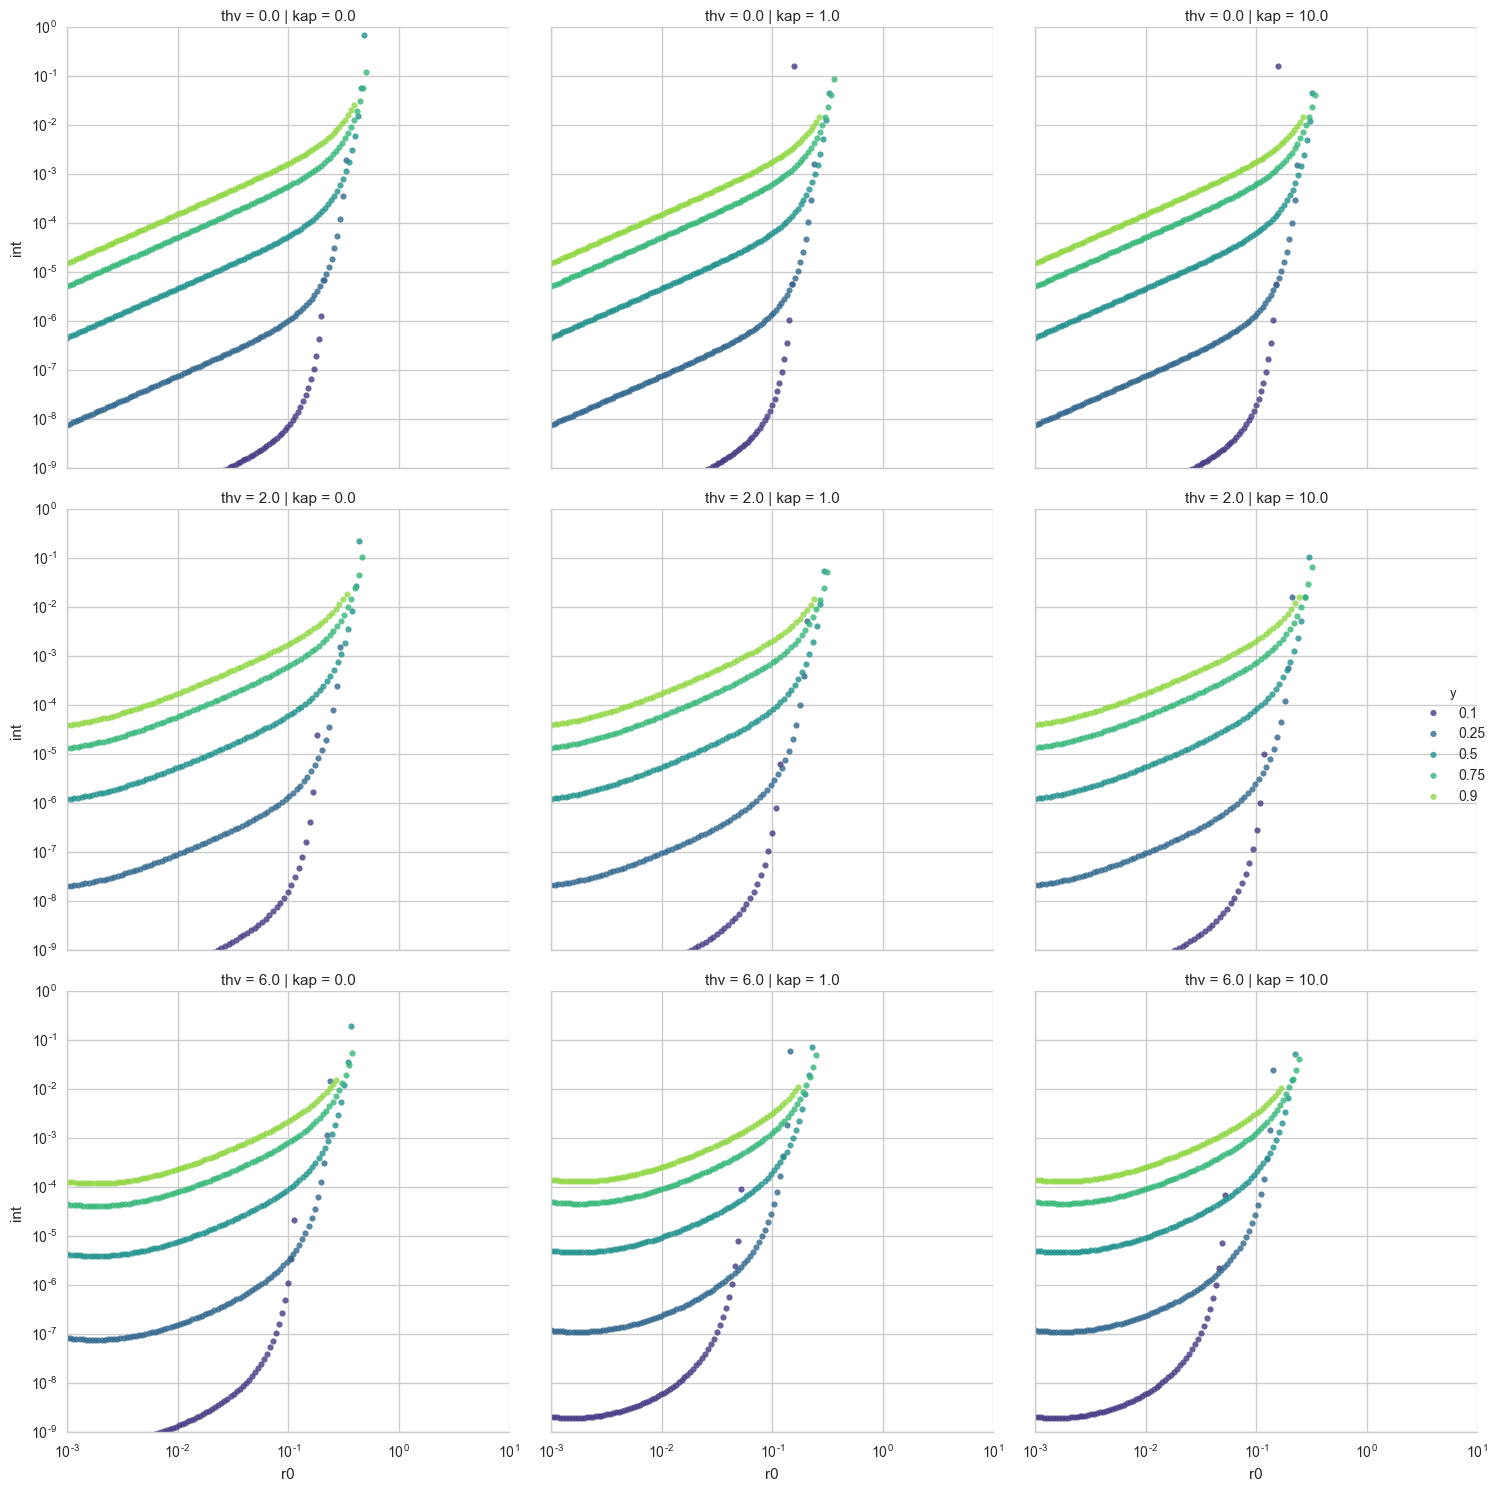
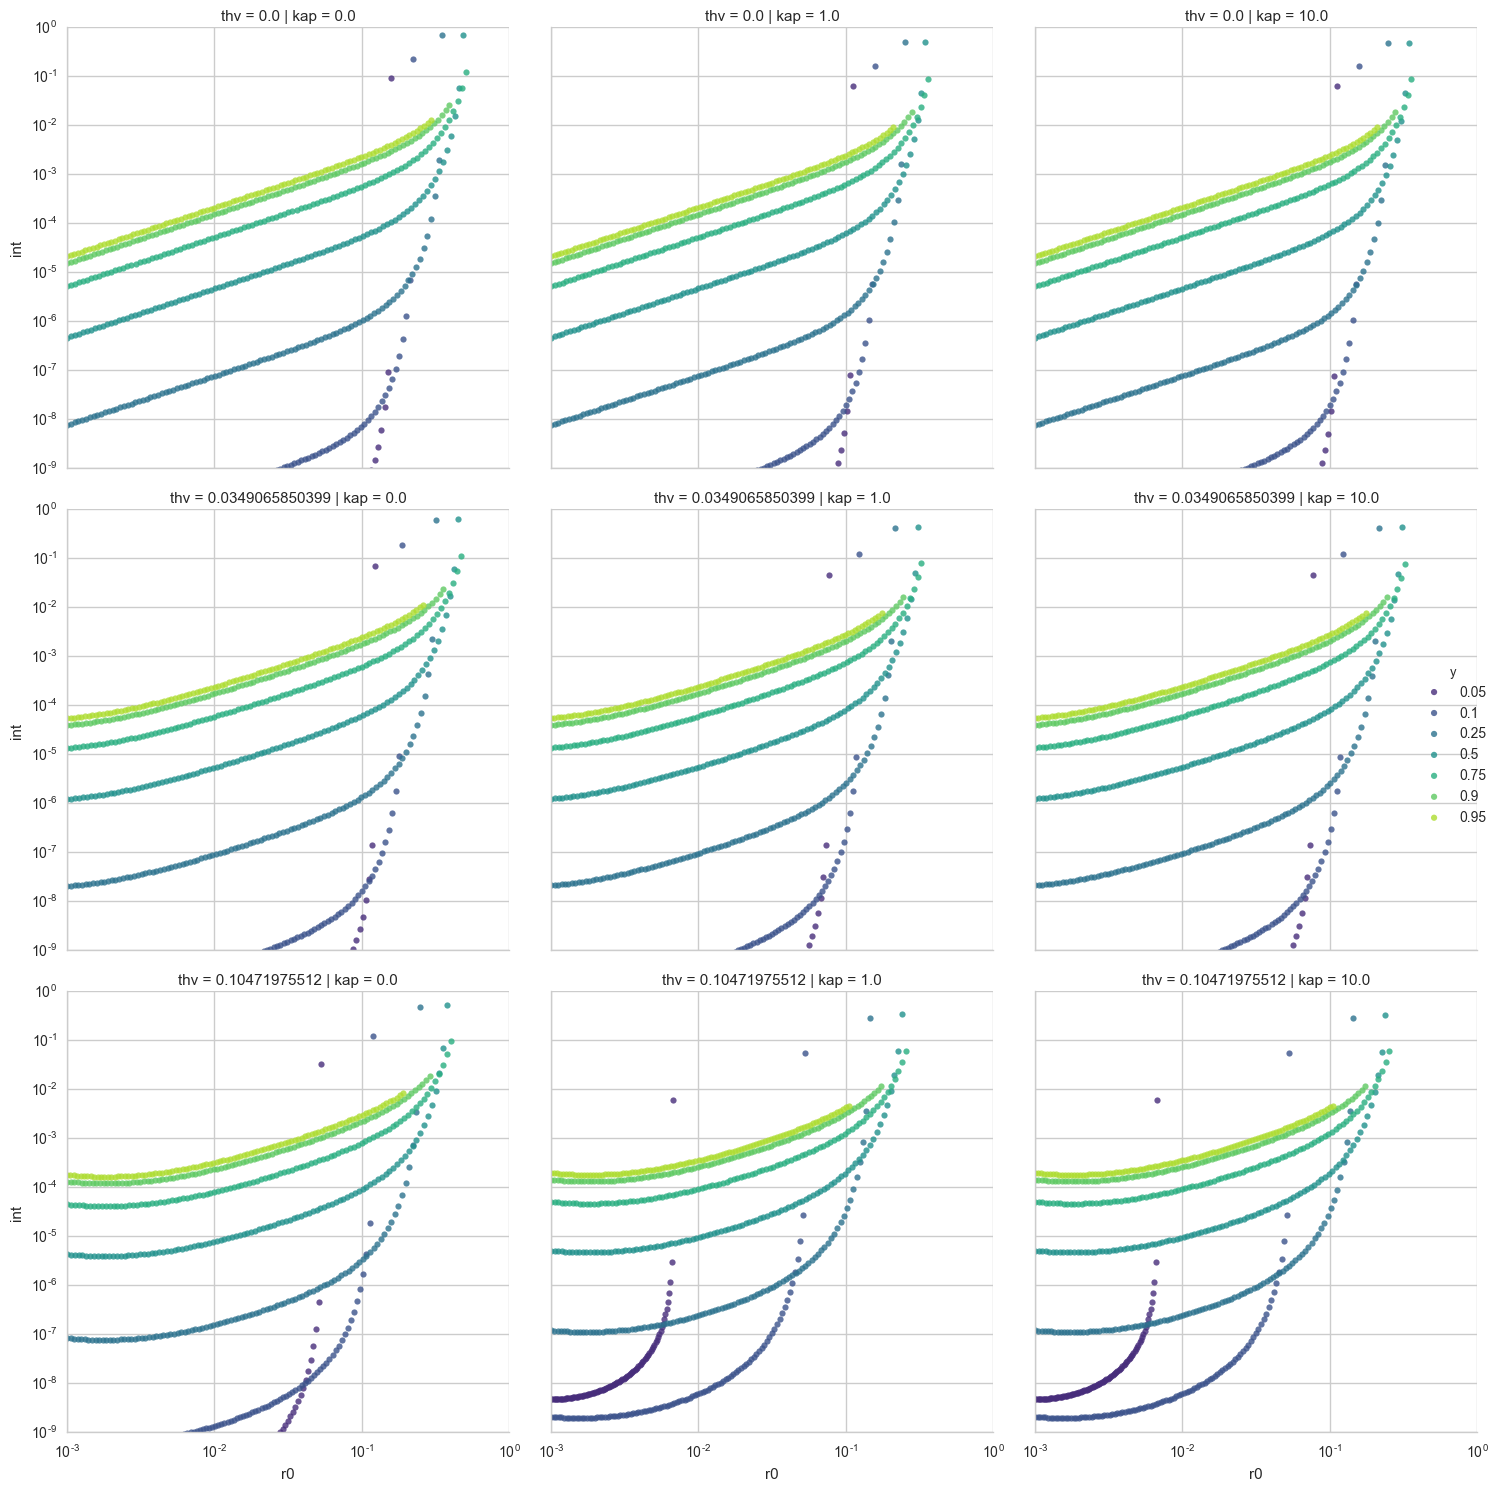
Integration/r0'_max Root Solve Tests
Perform tests of integration for various KAPPA/THETA_V combinations.
Investigate regions where integration breaks. Seems certain y values
have a negative r0'_max, hence should not be integrated.

diff --git a/grba_integration.py b/grba_integration.py
@@ -1,7 +1,7 @@
 import sys
 from ctypes import *
-from scipy.optimize import fsolve
-from scipy.integrate import nquad
+from scipy.optimize import fsolve, brentq
+from scipy.integrate import nquad, quad, romberg, quadrature
 from math import radians, degrees
 import numpy as np
 import pandas as pd
@@ -9,6 +9,8 @@ import matplotlib as mpl
 import matplotlib.pyplot as plt
 import seaborn as sns
 sns.set_style("whitegrid")
+
+TINY = 1.0e-5
 
 grbaint = cdll.LoadLibrary("Release/grba_integration.dll")
 phiInt = grbaint.phiInt
@@ -45,82 +47,177 @@ def r0_max(y, kap, sig, thv, gA = 1.0, k = 0.0, p = 2.2):
         rhs = (np.tan(thv) + rm)**2.0*np.exp2(rExp)
         return rhs - lhs
 
-    rootVal = fsolve(root, 0.4)[0]
+    rootVal = fsolve(root, 1.0e-3)[0]
+    # rootVal = brentq(root, 0.0, 0.6)
     return rootVal
+
+def r0_max_val(r, y, kap, sig, thv, gA = 1.0, k = 0.0, p = 2.2):
+    Gk = (4.0 - k)*gA**2.0
+    thP0 = thetaPrime(r, thv, 0.0)
+    rExp = -np.power(np.divide(thP0, sig), 2.0*kap)
+    lhs = np.divide(y - np.power(y, 5.0 - k), Gk)
+    rhs = (np.tan(thv) + r)**2.0*np.exp2(rExp)
+    return rhs - lhs
+
+vec_r0Max_val = np.vectorize(r0_max_val)
 
 def fluxG_fullStr(r, y, kap, sig, thv, gA = 1.0, k = 0.0, p = 2.2):
     Gk = (4.0 - k)*gA**2.0
     thP0 = thetaPrime(r, thv, 0.0)
     exp0 = np.power(np.divide(thP0, sig), 2.0*kap)
     chiVal = np.divide(y - Gk*np.exp2(-exp0)*(np.tan(thv) + r)**2.0, np.power(y, 5.0 - k))
-    if chiVal < 1.0:
-        return 0.0
-    else:
-        return r*intG(y, chiVal)*phiInt(r, kap, thv, sig)
+    # if chiVal < 1.0:
+        # return 0.0
+    # else:
+        # return r*intG(y, chiVal)*phiInt(r, kap, thv, sig)
+    return r*intG(y, chiVal)*phiInt(r, kap, thv, sig)
 
 vec_fluxG_fullStr = np.vectorize(fluxG_fullStr)
 
 def bounds_yr(kap, sig, thv):
-    return [0.1, 1.0]
+    return [TINY, 1.0]
 
 def bounds_ry(y, kap, sig, thv):
-    return [0.1, r0_max(y, kap, sig, thv)]
+    R0MAX = r0_max(y, kap, sig, thv)
+    if R0MAX < 0.0:
+        return [0.0, 0.0]
+    else:
+        return [0.0, R0MAX]
 
 def plot_r0Int(y, kap, sig, thv):
     R0_MAX = r0_max(y, kap, sig, thv)
-    # r0s = np.linspace(0.001, R0_MAX, num = 1000)
-    r0s = np.logspace(-3, np.log10(R0_MAX), num = 100)
-    # vals = np.asarray([fluxG_fullStr(r0, y, kap, sig, thv) for r0 in r0s])
-    vals = vec_fluxG_fullStr(r0s, y, kap, sig, radians(thv))
+    if R0_MAX > 0.0:
+        # r0s = np.linspace(0.001, R0_MAX, num = 1000)
+        r0s = np.logspace(-3, np.log10(R0_MAX), num = 100)
+        # vals = np.asarray([fluxG_fullStr(r0, y, kap, sig, thv) for r0 in r0s])
+        vals = vec_fluxG_fullStr(r0s, y, kap, sig, thv)
+        dat = pd.DataFrame(data = {'r0': r0s, 'int': vals})
+        NUM_ROWS = len(dat)
+        dat['y'] = np.repeat(y, NUM_ROWS)
+        dat['kap'] = np.repeat(kap, NUM_ROWS)
+        dat['thv'] = np.repeat(thv, NUM_ROWS)
+        # print data.head()
+        # plt.plot(r0s, vals, label = str(y))
+        # plt.loglog(r0s, vals, label = str(y))
+        return(dat)
+
+def plot_r0Max(y, kap, sig, thv):
+    r0s = np.linspace(0.0, 1.0, num = 100)
+    vals = vec_r0Max_val(r0s, y, kap, sig, radians(thv))
     dat = pd.DataFrame(data = {'r0': r0s, 'int': vals})
     NUM_ROWS = len(dat)
     dat['y'] = np.repeat(y, NUM_ROWS)
     dat['kap'] = np.repeat(kap, NUM_ROWS)
     dat['thv'] = np.repeat(thv, NUM_ROWS)
-    # print data.head()
-    # plt.plot(r0s, vals, label = str(y))
-    # plt.loglog(r0s, vals, label = str(y))
+    # max_val = r0_max(y, kap, sig, thv)
+    # dat['r0max'] = np.repeat(max_val, NUM_ROWS)
+    # dat['maxval'] = np.repeat(0.0, NUM_ROWS)
     return(dat)
     
 def plot_r0Int_grid():
     SIGMA = 2.0
     df_list = []
-    for KAPPA in [0.0, 1.0, 10.0]:
-        for THETA_V in [0.0, 2.0, 6.0]:
-            for y in [0.1, 0.25, 0.5, 0.75, 0.9]:
-                df = plot_r0Int(y, KAPPA, SIGMA, THETA_V)
+    max_list = [[[] for x in range(3)] for y in range(3)]
+    # i = 0
+    for i, KAPPA in enumerate([0.0, 1.0, 10.0]):
+        for j, THETA_V in enumerate([0.0, 2.0, 6.0]):
+            for y in [TINY, 0.1, 0.25, 0.5, 0.75, 0.9, 1.0 - TINY]:
+            # for y in [TINY, 1.0 - TINY]:
+                df = plot_r0Int(y, KAPPA, SIGMA, radians(THETA_V))
+                # df = plot_r0Max(y, KAPPA, SIGMA, THETA_V)
                 # print df.head()
                 df_list.append(df)
+                
+                # max_val = r0_max(y, KAPPA, SIGMA, radians(THETA_V))
+                # max_list[j][i].append(max_val)
+                # print KAPPA, THETA_V, y, max_val
+            # i += 1
     
     data = pd.concat(df_list)
+    # print data.head()
     # plt.figure()
     grid = sns.lmplot(x = 'r0', y = 'int', hue = 'y',
-                        col = 'kap', row = 'thv', data = data, fit_reg = False,
-                        palette = 'viridis')  # 
+                        col = 'kap', row = 'thv', data = data, markers = '.',
+                        palette = 'viridis', fit_reg = False)  # 
+    # grid.map(plt.axhline, color = 'red', linestyle = '--')
+    # grid.map(plt.scatter, 'r0max', 'maxval')
     grid.set(yscale="log")
     grid.set(xscale="log")
+    # grid.set_axis_labels("r0'", "Root Function")
+    grid.set_axis_labels("r0'", "r0' Integrand")
+    
+    # for loc, data in grid.facet_data():
+        # # print loc
+        # grid.axes[loc[0], loc[1]].scatter(max_list[loc[0]][loc[1]], [0.0 for x in range(7)], marker = 'o')
     axes = grid.axes
+    # for i, ax in enumerate(axes.flat):
+        # print i, ax.get_xlim()
+        # for rm in max_list[i]:
+            # ln_ = ax.axvline(x = rm, linestyle = '--', color = 'red')
+    
     axes[0, 0].set_ylim(1.0e-9, )
     axes[0, 0].set_xlim(1.0e-3, )
     grid.set_titles('thv = {row_name} | kap = {col_name}')
-    # plt.show()
-    grid.savefig("r0-integrand.png")
+    plt.show()
+    # grid.savefig("r0-Int.png")
+
+def r0_integral():
+    SIG = 2.0
+    dat_list = []
+    for i, KAP in enumerate([0.0, 1.0, 10.0]):
+        for j, THETA_V in enumerate([0.0, 2.0, 6.0]):
+            THV = radians(THETA_V)
+            ys = np.linspace(0.0, 1.0, 100)
+            ints = np.zeros(len(ys))
+            for index in range(len(ys)):
+                YVAL = ys[index]
+                R0_MAX = r0_max(YVAL, KAP, SIG, THV)
+                if R0_MAX > 0.0:
+                    int_val = quad(fluxG_fullStr, 0.0, R0_MAX,
+                                    args = (YVAL, KAP, SIG, THV),
+                                    epsabs = 1.0e-5)[0]
+                    print KAP, THETA_V, YVAL, int_val
+                    ints[index] = int_val
+            
+            loc_df = pd.DataFrame(data = {'y': ys, 'ival': ints})
+            N = len(loc_df)
+            loc_df['kap'] = np.repeat(KAP, N)
+            loc_df['thv'] = np.repeat(THETA_V, N)
+            
+            dat_list.append(loc_df)
+    
+    df = pd.concat(dat_list)
+    grid = sns.lmplot(x = 'y', y = 'ival', col = 'kap', row = 'thv', data = df,
+                        fit_reg = False)
+    plt.show()
 
 def main():
     tiny = np.power(10.0, -3.0)
     SIGMA = 2.0
     KAPPA = 1.0
     THETA_V = radians(6.0)
-    plot_r0Int_grid()
+    YVAL = 0.5
+    # plot_r0Int_grid()
+    r0_integral()
 
-    # #KAPPA = tiny
-    # for kap in range(10):
+    # # KAPPA = tiny
+    # # for kap in range(10):
+    # for kap in [0.0, 1.0, 3.0, 10.0]:
         # # KAPPA = np.power(10.0, -float(kap + 1))
-        # KAPPA = float(kap) + 0.01
+        # KAPPA = float(kap)  # + 0.01
         # # print fluxG_fullStr(0.1, 0.5, 1.0, 2.0, radians(6.0))
         # str_int = nquad(fluxG_fullStr, [bounds_ry, bounds_yr], 
-                        # args = (KAPPA, SIGMA, radians(6.0)))
-        # print str_int
+                        # args = (KAPPA, SIGMA, THETA_V),
+                        # opts = {'epsabs': 1.0e-5})
+        # # str_int = quad(fluxG_fullStr, TINY, r0_max(YVAL, KAPPA, SIGMA, THETA_V) - TINY,
+                        # # args = (YVAL, KAPPA, SIGMA, THETA_V), epsabs = 1.0e-5)
+        # # str_int = romberg(vec_fluxG_fullStr, TINY, r0_max(YVAL, KAPPA, SIGMA, THETA_V) - TINY,
+                            # # args = (YVAL, KAPPA, SIGMA, THETA_V), tol = 1.0e-5,
+                            # # vec_func = True)
+        # # str_int = quadrature(vec_fluxG_fullStr, TINY, r0_max(YVAL, KAPPA, SIGMA, THETA_V) - TINY,
+                            # # args = (YVAL, KAPPA, SIGMA, THETA_V), tol = 1.0e-5,
+                            # # vec_func = True)
+        # print KAPPA, str_int
 
 if __name__ == "__main__":
     sys.exit(int(main() or 0))
